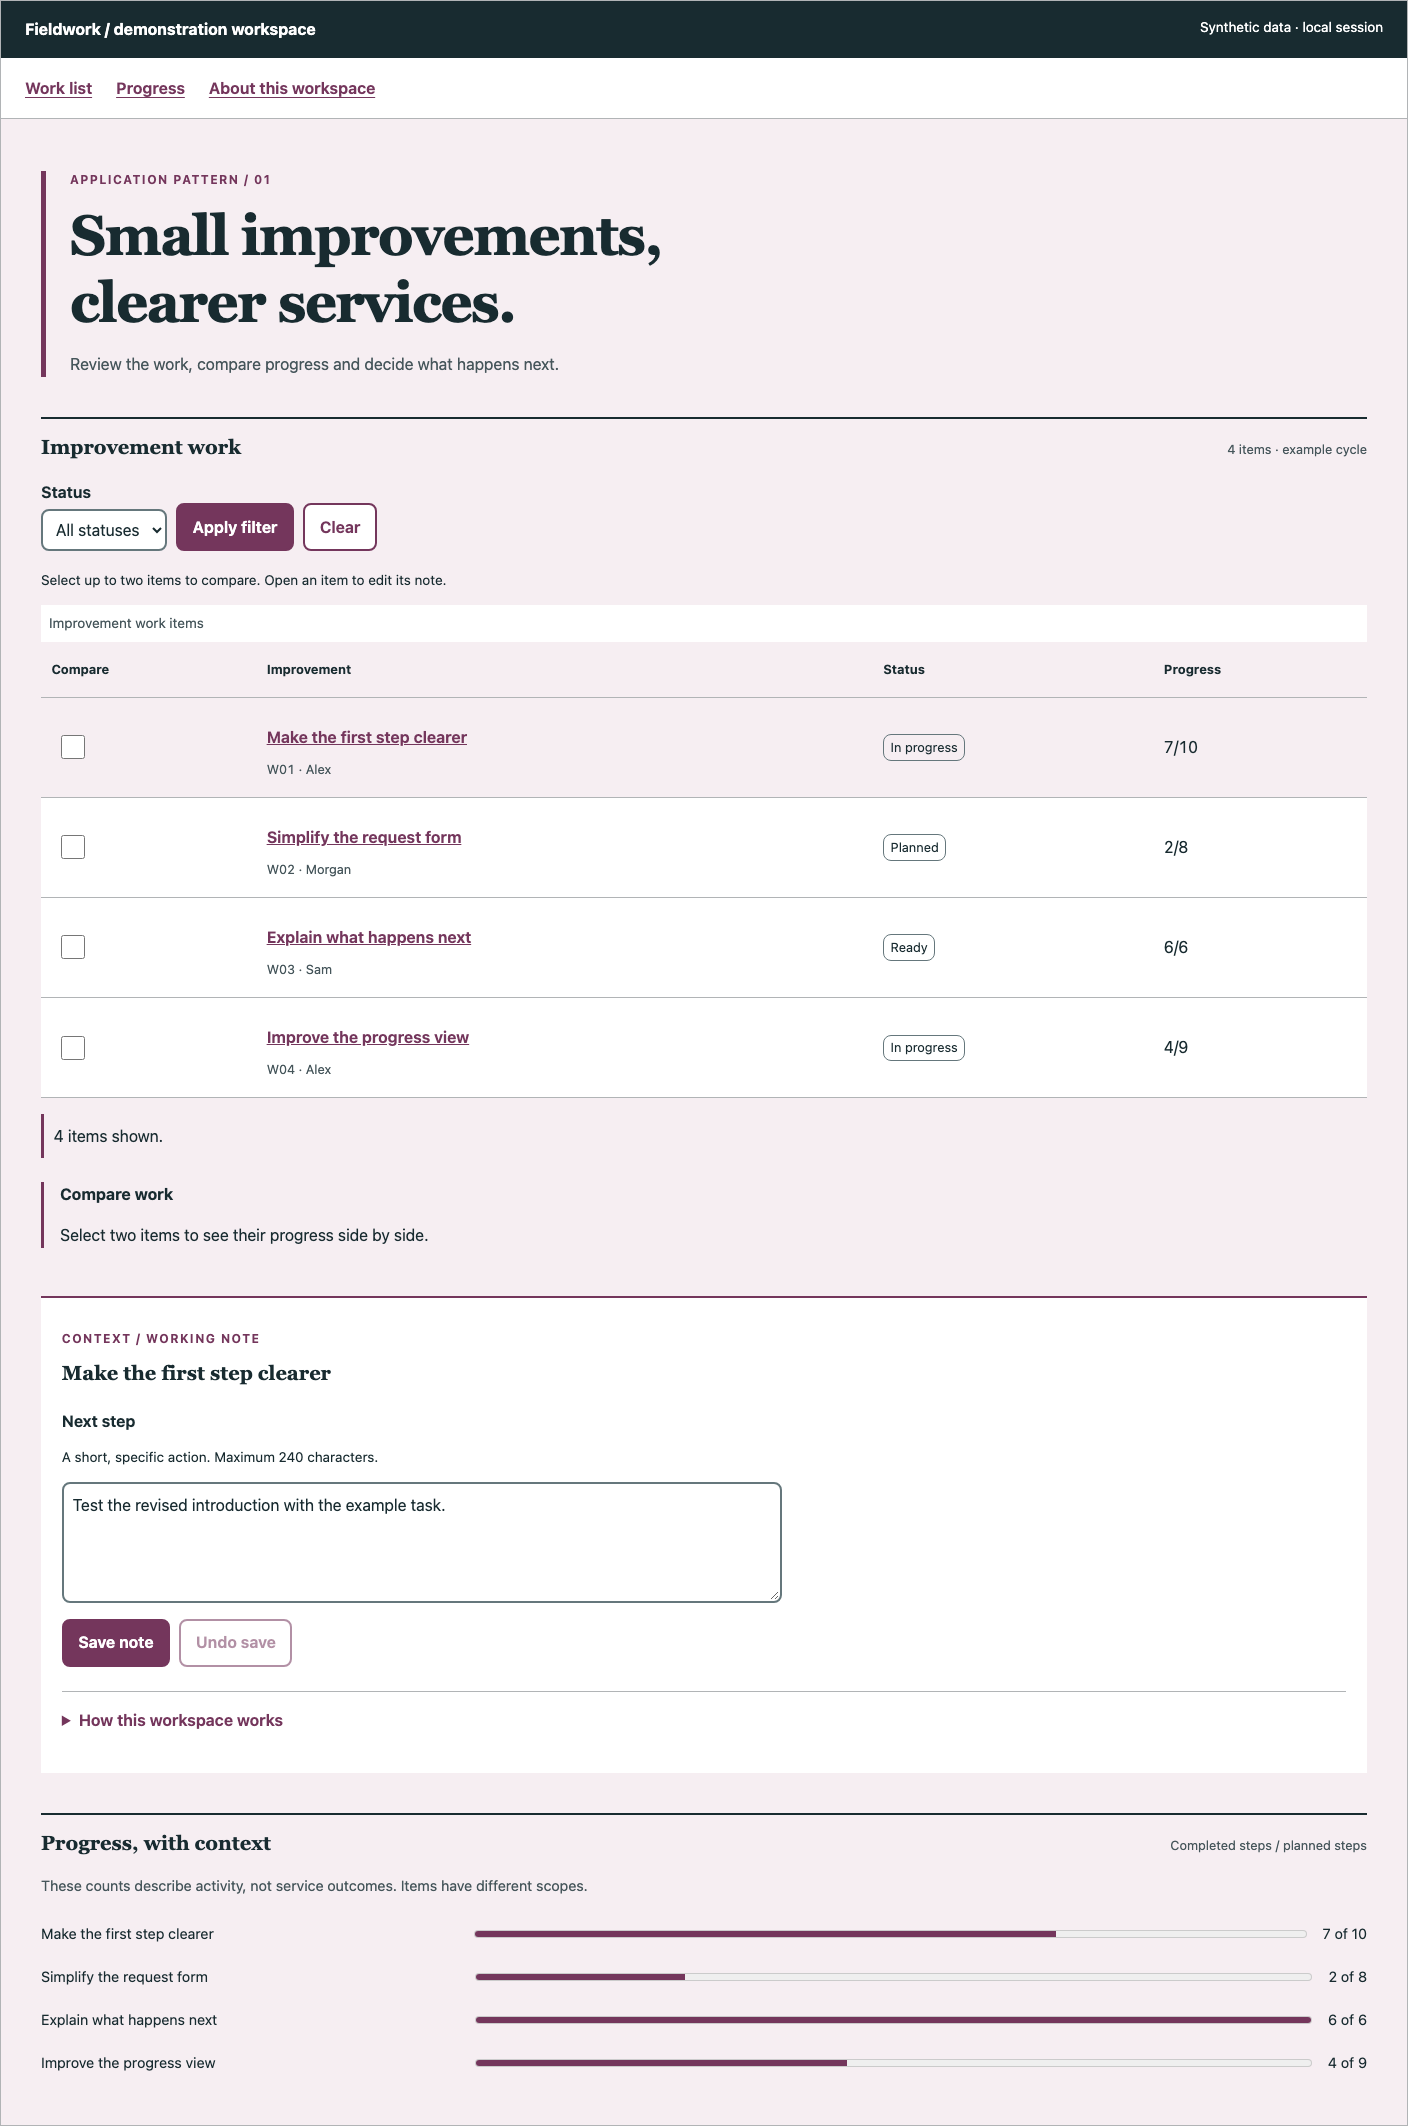
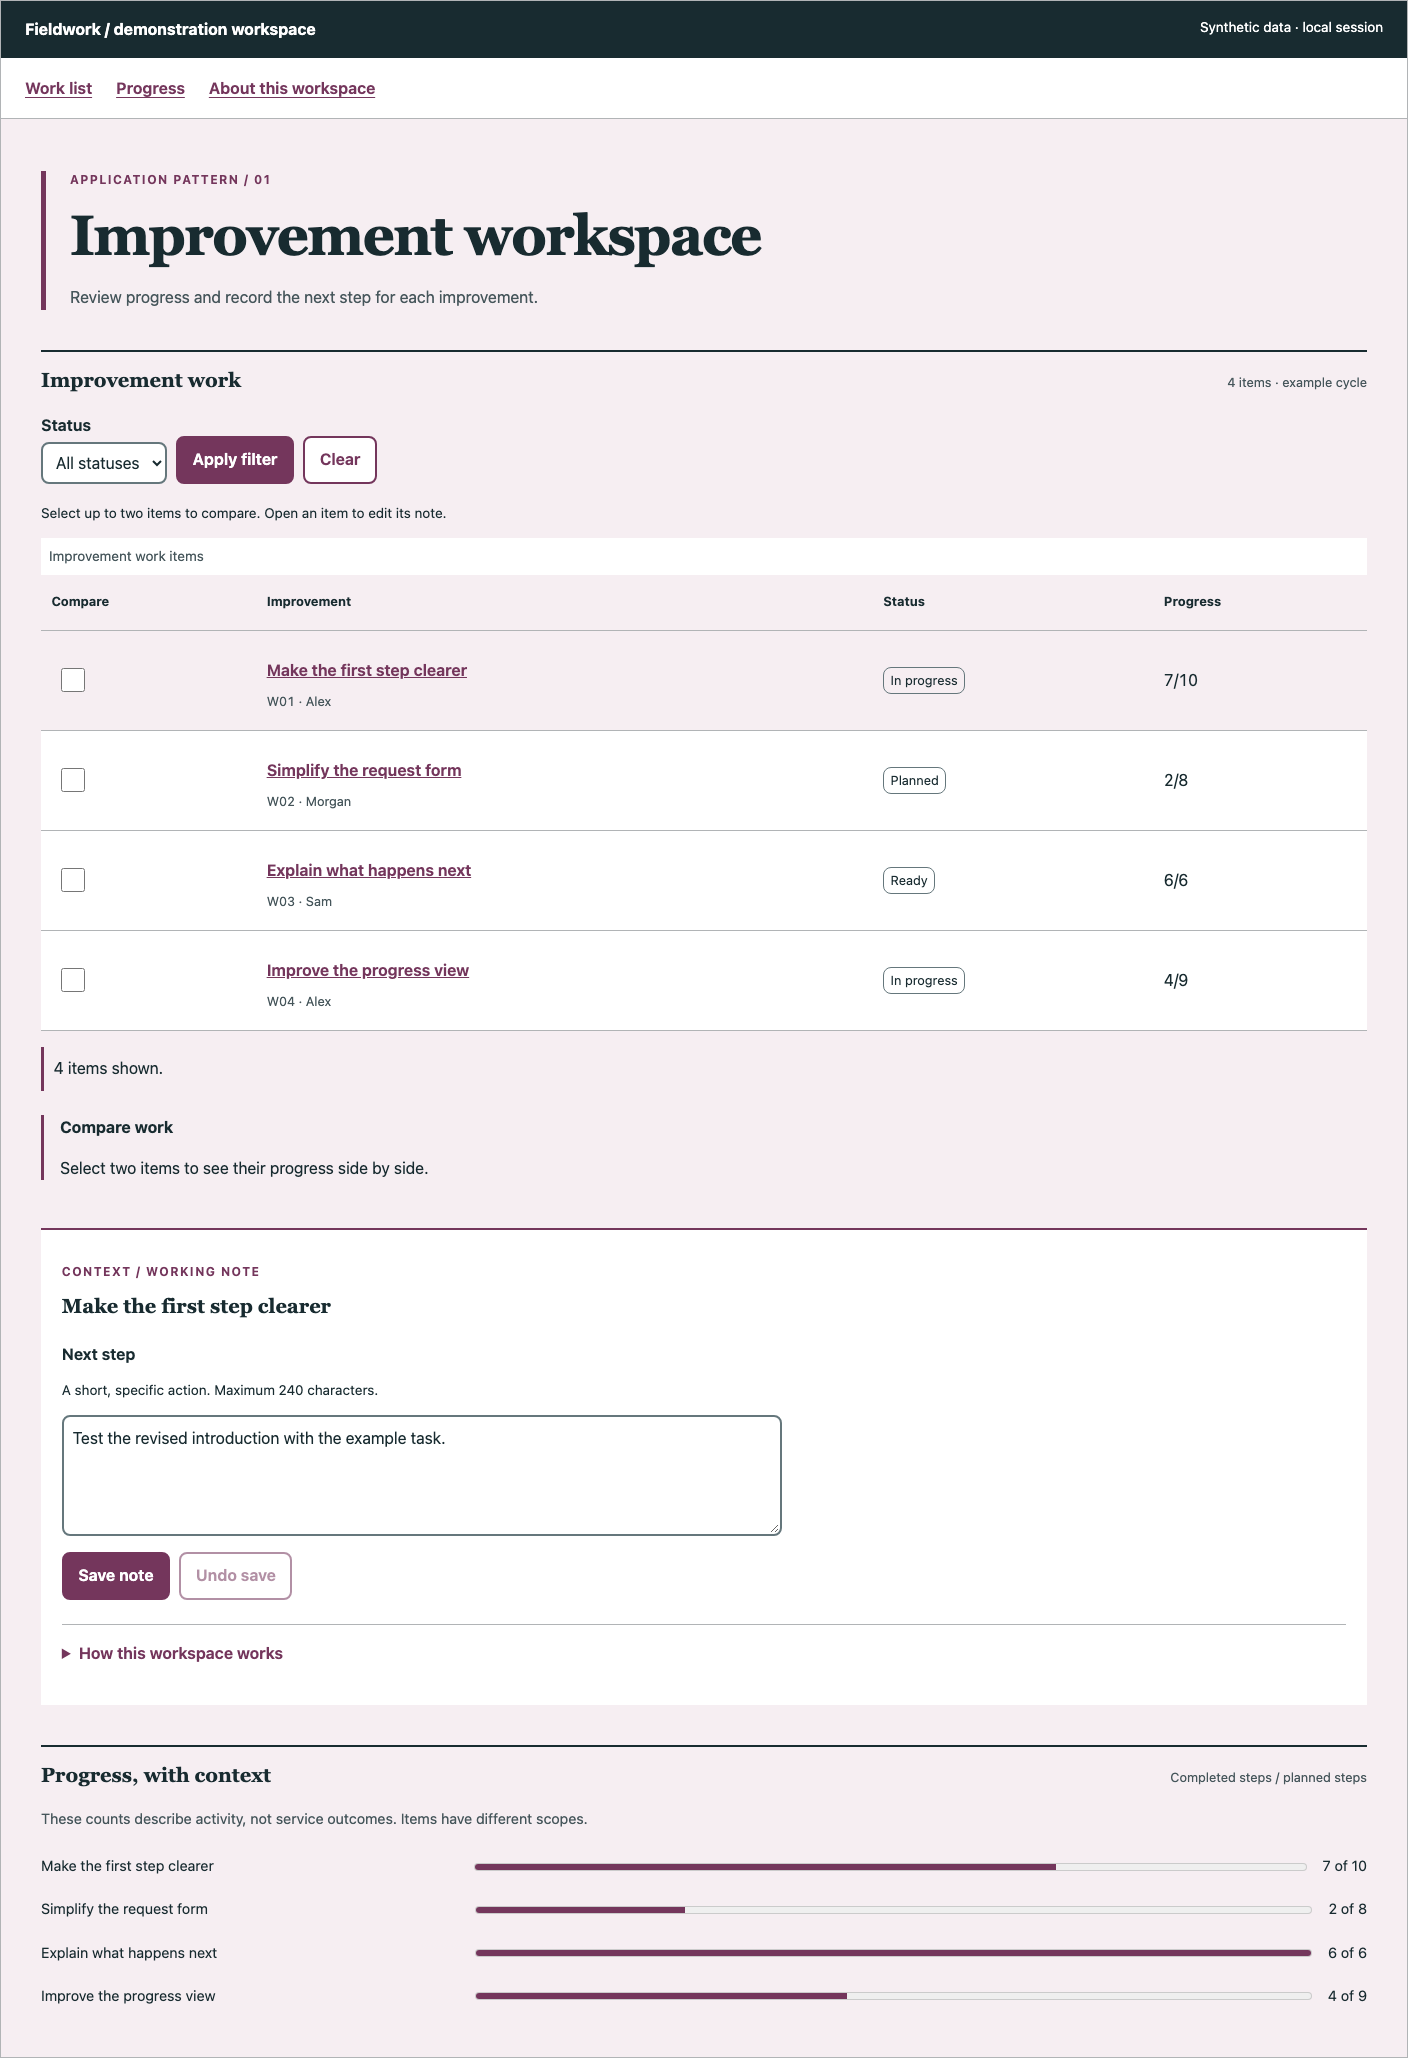
Align workspace with existing interface expression guidance

diff --git a/docs/interface/acceptance.md b/docs/interface/acceptance.md
@@ -1,6 +1,6 @@
 # MVP rendered interface acceptance
 
-Reviewed 24 November 2026 on branch `codex/application-interface-mvp`, against the source and screenshots committed in this pull request. Starting publishing revision: `53f6704`. This is an agent implementation review for MVP evaluation, not user-research validation or production accessibility certification.
+Reviewed 24 November 2026 on branch `codex/application-interface-mvp`, against the source and screenshots committed in this pull request. Initial local publishing revision: `53f6704`; remote main guidance at `a75afba` was subsequently integrated. This is an agent implementation review for MVP evaluation, not user-research validation or production accessibility certification.
 
 ## Result
 
@@ -17,7 +17,7 @@ Production release is not accepted by this record: inherited dependency audit fi
 | `npm run profile:check` | Presets, JSON Schema and machine-readable decisions match the TypeScript source. |
 | `npm run skills:verify` | Pinned third-party guideline text and licence hashes match provenance. |
 | `npm run build` | Astro checks and builds 5 static routes, including existing standard/Lab/content-model pages and validated content collections. Also run by the browser gateway. |
-| `npm run test:interface` | 8 tests pass against the built static site in Chromium; final run 21.7 seconds including server build/startup. |
+| `npm run test:interface` | 8 tests pass against the built static site in Chromium; final integrated run passes including server build/startup. |
 | Preset viewport checks | All four presets at 1440 × 1000, 768 × 1000 and 390 × 1000; no page-level horizontal overflow. |
 | Accessibility scans | No axe violations for selected WCAG A/AA tags in 12 preset/viewport combinations and the expanded parameter controls. |
 | Tasks and state transitions | Explicit and live filtering, contextual edit focus, field validation, save/undo, unsaved edit cancellation, two-item comparison, third-item rejection, linked visual selection, unavailable states, retry and validated JSON download pass. |
@@ -36,11 +36,31 @@ The review led to these refinements:
 - Corrected the status control's label association after the representative task test exposed it.
 - Added visible mobile table-scrolling guidance and moved comparison/edit instructions outside the scrolling region so they remain readable.
 - Limited the editor form's measure on wide stacked layouts.
+- Replaced the workspace's editorial slogan with a task-specific heading, aligning with the existing application-expression proposal.
 - Hid unavailable contextual/progress content, replaced stale item counts and put Retry beside the error message.
 - Kept the comparison reference explicitly read-only and removed its misleading navigation links.
 - Retained visible focus, non-colour status labels and text equivalents for progress. Activity is explicitly distinguished from service outcomes.
 
 Horizontal table scrolling is intentional on narrow screens: the region is labelled and keyboard-focusable, while the surrounding page reflows. This deserves user evaluation in the first consuming application, particularly if the dataset or task changes. The broader tablet and full-page screenshots provide context; they are not generated concept images.
+
+## Existing ten-heuristic review
+
+This mapping applies the review convention already proposed in `docs/interface-expressions.md`.
+
+| Heuristic | Observed MVP behaviour and boundary |
+| --- | --- |
+| Visibility of system status | Item count, active item, save feedback, selection count and explicit unavailable-state messages. |
+| Match with the real world | Work items, owners, statuses, next steps and completed/planned steps use plain task terminology. Synthetic data and activity/outcome distinctions are visible. |
+| User control and freedom | Clear filters, cancel unsaved-edit discard, undo the last save and retry unavailable data. Reload resets the local demonstration. |
+| Consistency and standards | Native forms, links, table, disclosure and meters; stable labels and the same data across presets. |
+| Error prevention | Enforced two-item comparison, note length limit, unsaved-edit protection and disabled/hidden editing when data is unavailable. |
+| Recognition rather than recall | Visible status choices, item names/owners, persistent context and labels beside controls. |
+| Flexibility and efficiency | Keyboard operation, compact density, split editor and opt-in live filtering. No undiscoverable custom shortcuts. |
+| Aesthetic and minimalist design | Task-focused workspace header, ruled sections and contextual form. Playground configuration is separate from the application task. |
+| Error recognition and recovery | Specific field error linked to input, focus on the invalid field, clear retry and successful-save undo. |
+| Help and documentation | Inline note hint, disclosure explaining local-save scope, visible mobile scrolling guidance and adoption/running documentation. |
+
+These are implementation observations, not empirical proof of usability. Test the first consuming project's real task and users before promoting further patterns.
 
 ## Screenshot index
 

diff --git a/docs/interface/architecture.md b/docs/interface/architecture.md
@@ -2,7 +2,7 @@
 
 ## Discovery
 
-The starting repository had three Astro publishing layouts, three small content components, root CSS tokens, Zod-based content models, Markdown examples, a build workflow and copy-based adoption guidance. It had no application behaviour, project design-profile contract, browser tests, interface-specific skills or rendered acceptance gate. Existing GOV.UK Frontend is a dependency, but the custom publishing components do not initialise its JavaScript.
+The starting repository had three Astro publishing layouts, three small content components, root CSS tokens, Zod-based content models, Markdown examples, a build workflow and copy-based adoption guidance. It had no application behaviour, project design-profile contract, browser tests, interface-specific skills or rendered acceptance gate. The remote main branch also contained an existing [two-expression proposal](../interface-expressions.md) and [visual-explanation pattern](../visual-explanation.md), which were integrated before final acceptance. The MVP implements a bounded example of that application/workspace expression; it does not supersede the proposal, promote a consuming application's implementation wholesale or alter upstream visual semantics. Existing GOV.UK Frontend is a dependency, but the custom publishing components do not initialise its JavaScript.
 
 Read-only inspection of the adjacent infrastructure's boundary and operating documents confirmed that orchestration, portable agent routing and protected methods already have owners. This repository owns interface implementation foundations only. It consumes project needs and constraints without importing protected methods, private rubrics, prompts or domain evidence. No adjacent repository was modified. No GESE definition was located in the inspected repository or adjacent operating guidance: this MVP uses small reversible increments, observable behaviour and explicit acceptance rather than inventing a GESE expansion or claiming formal compliance.
 

diff --git a/docs/interface/agent-integration.md b/docs/interface/agent-integration.md
@@ -1,6 +1,6 @@
 # Agent and consuming-project contract
 
-The application system extends the existing copy-based usage convention. Project needs and constraints remain authoritative; this contract supplies interface decisions and acceptance evidence. It neither owns orchestration nor imports protected design methods.
+The application system extends the existing copy-based usage convention. Read the existing [two-expression proposal](../interface-expressions.md) and [visual-explanation guidance](../visual-explanation.md) alongside this contract. Project needs and constraints remain authoritative; this contract supplies interface decisions and acceptance evidence. It neither owns orchestration nor imports protected design methods.
 
 ## Adopt in an Astro repository
 

diff --git a/docs/interface/gateway.md b/docs/interface/gateway.md
@@ -20,6 +20,8 @@ npm run dev -- --host 127.0.0.1
 
 Open `http://127.0.0.1:4321/playground/`. Stop the local server with Ctrl+C. The browser test runner builds and starts its own loopback preview server. Stop any server on port 4321 before running it. Screenshots are written to `docs/interface/evidence/`; HTML/trace diagnostics go to ignored `playwright-report/` and `test-results/`. Only refresh reviewed screenshots alongside the code they represent.
 
+Apply the existing [interface-expression proposal](../interface-expressions.md), including all ten usability heuristics. The MVP's explicit mapping is in [acceptance.md](acceptance.md).
+
 ## Acceptance tasks
 
 | Area | Evidence required |
